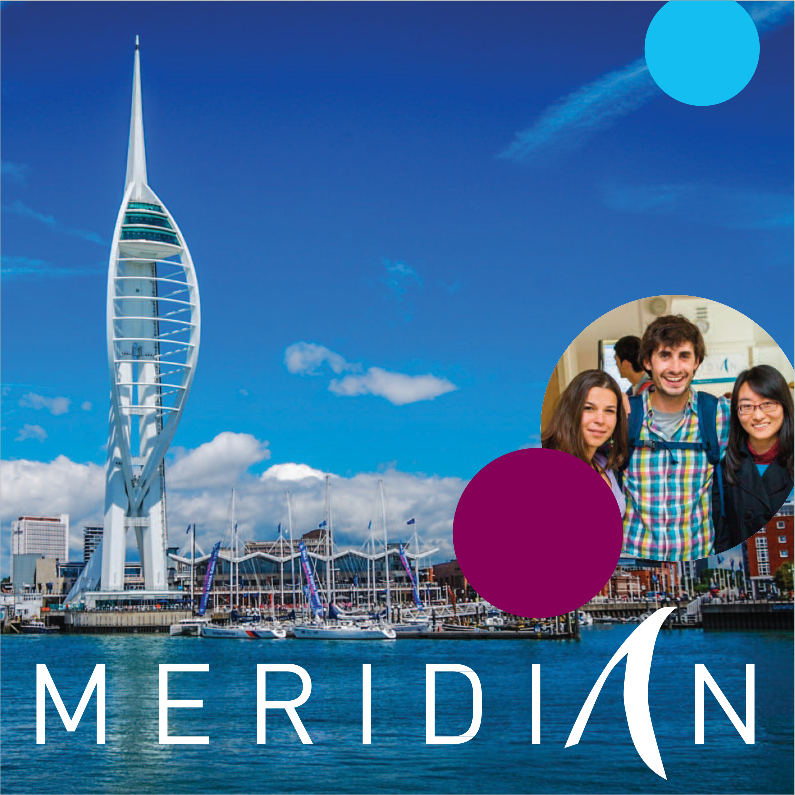
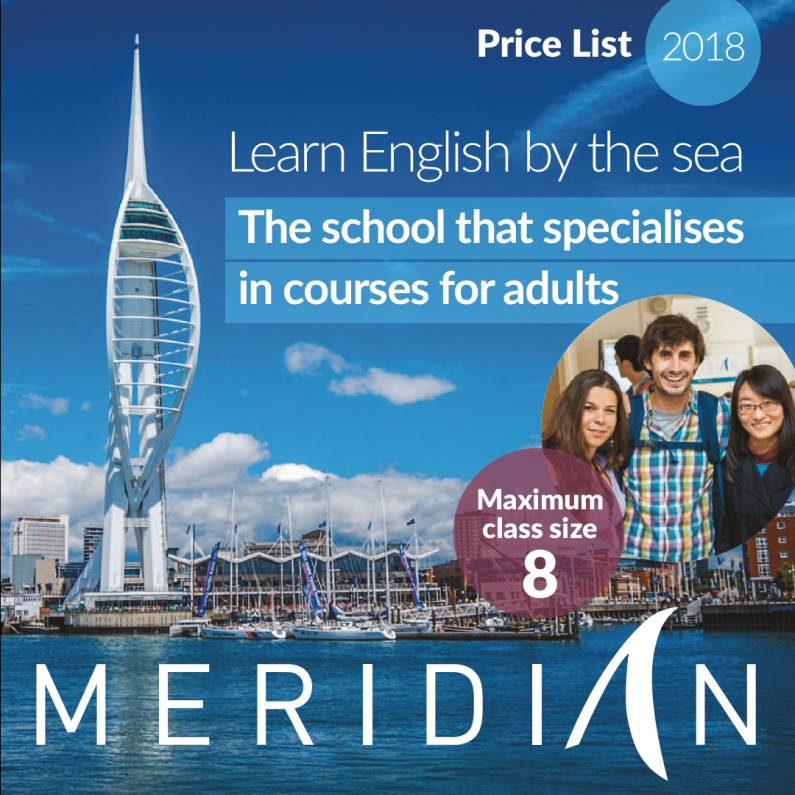
image

diff --git a/Merdian_Price_List_2018_Sept_MR.html b/Merdian_Price_List_2018_Sept_MR.html
@@ -31,4 +31,4 @@
 <p class="s11">** all prices are valid until 31/08/2018.</p>
 <p class="s11">Terms and Conditions of our courses and accommodation are at: www.meridianenglish.com</p>
 <p class="s11"></p>
-<p class="s11">Learn English by the sea</p><p><span><IMG width="378" height="784" src="Merdian_Price_List_2018_Sept_MR/Image_003.jpg"/></span><br/><span><IMG width="133" height="45" src="Merdian_Price_List_2018_Sept_MR/Image_004.png"/></span><br/><span><IMG width="114" height="86" src="Merdian_Price_List_2018_Sept_MR/Image_005.jpg"/></span></p></body></html>
+<p class="s11">Learn English by the sea</p><p><span><IMG width="795" height="443" src="Merdian_Price_List_2018_Sept_MR/Image_003.jpg"/></span><br/><br/></p></body></html>
